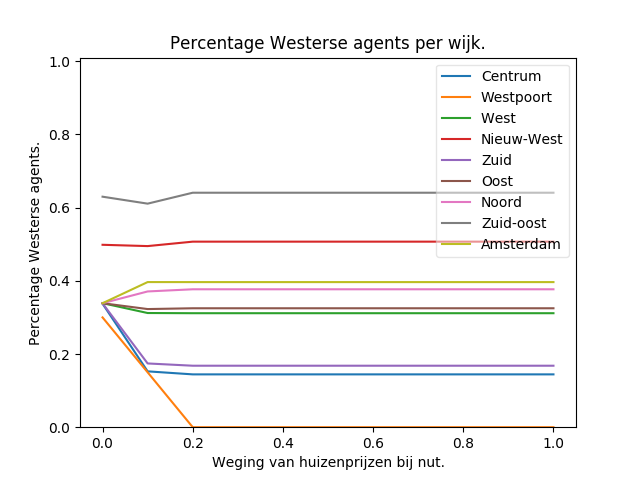
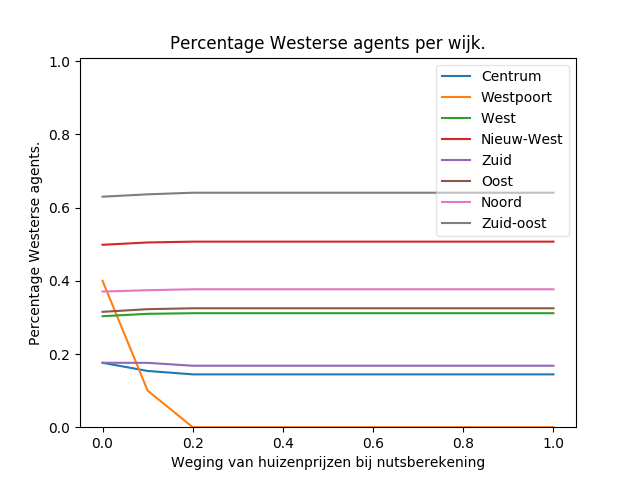
tabellen naar csv

diff --git a/plot.py b/plot.py
@@ -1,12 +1,43 @@
 import pickle
 import matplotlib.pyplot as plt
 import numpy as np
+import pandas as pd
 
+
+def cal_entropy(ratio):
+    p = ratio[0]
+    if p == 1 or p == 0:
+        return 0
+    return (-p * (np.log(p) / np.log(2))) - ((1 - p) * (np.log(1 - p) / np.log(2)))
 
 a = pickle.load(open('results_housingprice.pkl', 'rb'))
 wijken, steps, a = a[-1], a[-2], np.array(a[:-2])
+S = pd.DataFrame({'Houseprice_Weight': steps})
 density = np.array([np.round(x[1], 2) for x in a])
 ratio = np.array([x[0] for x in a])
+entropy = np.array([[cal_entropy(w) for w in r] for r in ratio])
+
+# FOR TABLES
+# entropy = pd.DataFrame(entropy)
+# entropy.columns = [w + '_entropy'for w in wijken]
+# entropy = S.join(entropy)
+# ratioNW = pd.DataFrame(ratio[:,:,0])
+# ratioNW.columns = [w + '_ratio_NW'for w in wijken]
+# ratioNW = S.join(ratioNW)
+# ratioW = pd.DataFrame(ratio[:,:,1])
+# ratioW.columns = [w + '_ratio_W'for w in wijken]
+# ratioW = S.join(ratioW)
+# density = pd.DataFrame(density)
+# density.columns = [w + '_density'for w in wijken]
+# density = S.join(density)
+#
+# df_list = [entropy, ratioNW, ratioW, density]
+# writer = pd.ExcelWriter('tabellen.xlsx')
+# for i, df in enumerate(df_list):
+#     df.to_excel(writer,'sheet{}'.format(i))
+# writer.save()
+
+
 for i in range(len(density[0])):
     plt.figure(1)
     plt.plot(steps, list(density[:, i]), label=wijken[i])
@@ -14,28 +45,38 @@ for i in range(len(density[0])):
     plt.plot(steps, list(ratio[:, i, 0]), label=wijken[i])
     plt.figure(3)
     plt.plot(steps, list(ratio[:, i, 1]), label=wijken[i])
+    plt.figure(4)
+    plt.plot(steps, entropy[:, i], label=wijken[i])
+
 
 
 
 plt.figure(1)
 plt.title('Populatiedichtheid tegenover de weging van huizenprijs.')
-plt.xlabel('Weging van huizenprijzen bij nut.')
+plt.xlabel('Weging van huizenprijzen bij nutsberekening')
 plt.ylabel('Populatiedichtheid')
 plt.ylim(0, 1.01)
 plt.legend(fancybox=True, framealpha=0.5)
 plt.savefig('density.png')
 plt.figure(2)
 plt.title('Percentage niet-Westerse agents per wijk.')
-plt.xlabel('Weging van huizenprijzen bij nut.')
+plt.xlabel('Weging van huizenprijzen bij nutsberekening')
 plt.ylabel('Percentage niet-Westerse agents.')
 plt.ylim(0, 1.01)
 plt.legend(fancybox=True, framealpha=0.5)
 plt.savefig('niet_Westers.png')
 plt.figure(3)
 plt.title('Percentage Westerse agents per wijk.')
-plt.xlabel('Weging van huizenprijzen bij nut.')
+plt.xlabel('Weging van huizenprijzen bij nutsberekening')
 plt.ylabel('Percentage Westerse agents.')
 plt.ylim(0, 1.01)
 plt.legend(fancybox=True, framealpha=0.5)
 plt.savefig('Westers.png')
-plt.show(2)
+plt.figure(4)
+plt.title('Entropie van de agents.')
+plt.xlabel('Weging van huizenprijzen bij nutsberekening')
+plt.ylabel('Entropie')
+plt.ylim(0, 1.01)
+plt.legend(fancybox=True, framealpha=0.5)
+plt.savefig('Entropy_perwijk.png')
+plt.show()

diff --git a/Code/schelling.py b/Code/schelling.py
@@ -9,7 +9,7 @@ class Schelling():
     '''Object that runs Schelling model.'''
     def __init__(self, sizes, ratios):
         self.model = model.Model(sizes, ratios)
-        self.ideal = 1
+        self.ideal = 0.5
         self.all_same = 0.8
         self.p_const = 0
 
